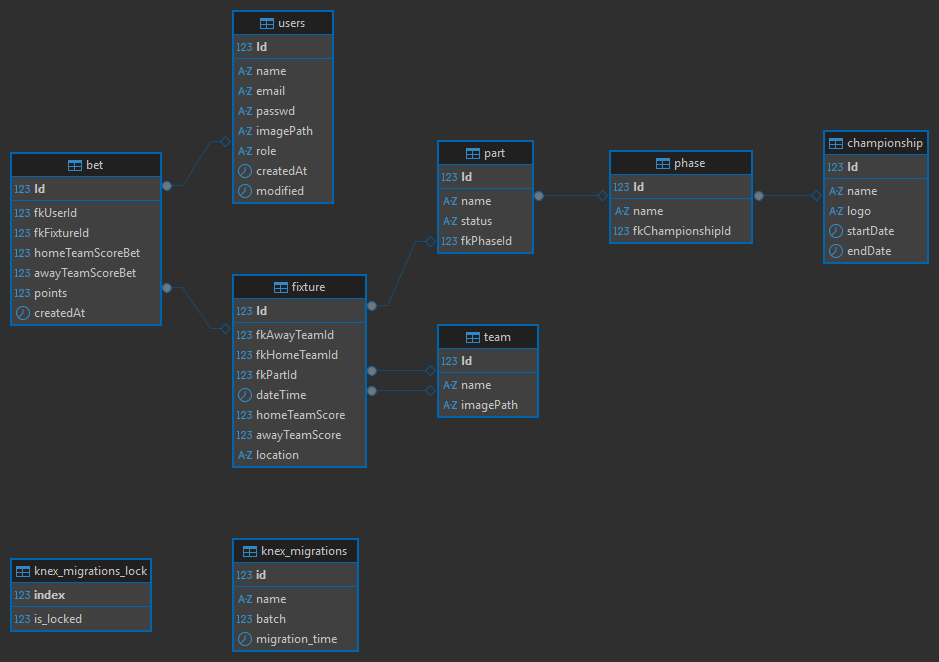
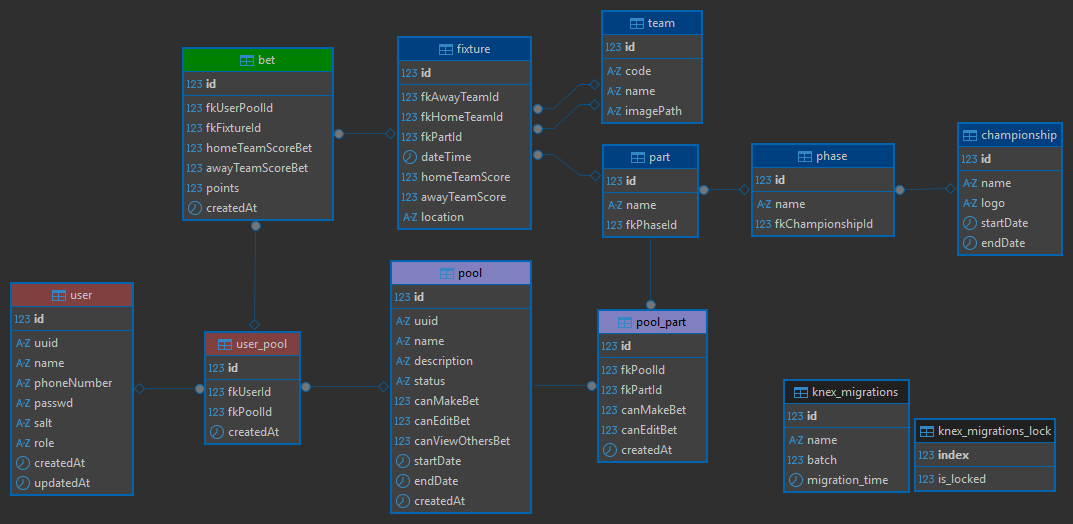
feat: ajustes de responsividade e diagrama de banco

Changed region(s): [[0.0, 0.0, 1.0, 1.0], [0.7103, 0.7023, 0.9883, 0.9466]]

diff --git a/app/src/components/pages/PagePools.js b/app/src/components/pages/PagePools.js
@@ -63,7 +63,7 @@ function PagePools() {
         return groups;
     };
 
-    const showPoolGroups = (groupType, name, pools) => {
+    const showPoolGroups = ([groupType, { name, pools }]) => {
         if (pools.length === 0) { return ''; }
 
         return (<>
@@ -95,7 +95,7 @@ function PagePools() {
             <div className="page-block">
                 <h2 className="title">Bolões</h2>
                 {
-                    groupedPools ? Object.entries(groupedPools).map(([groupType, { name, pools }]) => showPoolGroups(groupType, name, pools)) : console.log(groupedPools)
+                    groupedPools ? Object.entries(groupedPools).map((gPool) => showPoolGroups(gPool)) : ''
                 }
             </div>
         </div>

diff --git a/app/src/css/util/partidaPlacar.css b/app/src/css/util/partidaPlacar.css
@@ -112,3 +112,10 @@
 .match-container > .placar .error + label:after  {
 	background-color: red;
 }
+
+@media only screen and (max-width: 500px) {
+	.match-container>.placar>div>.button-container>button {
+		font-size: 15px;
+		width: 20px;
+	}
+}

diff --git a/app/src/css/pages/campeonato.css b/app/src/css/pages/campeonato.css
@@ -1,3 +1,7 @@
+.userPage-userCampeonatos {
+    overflow: auto;
+}
+
 .userPage-userCampeonatos>.userCampeonatos-container {
     padding: 0;
     margin: 0;

diff --git a/app/src/css/util/partidaListItem.css b/app/src/css/util/partidaListItem.css
@@ -83,6 +83,7 @@
 	width: 100%;
 	/* max-width: 620px; */
 	margin-bottom: 10px;
+	padding: 0px 10px;
 
 	display: flex;
 	flex-direction: row;
